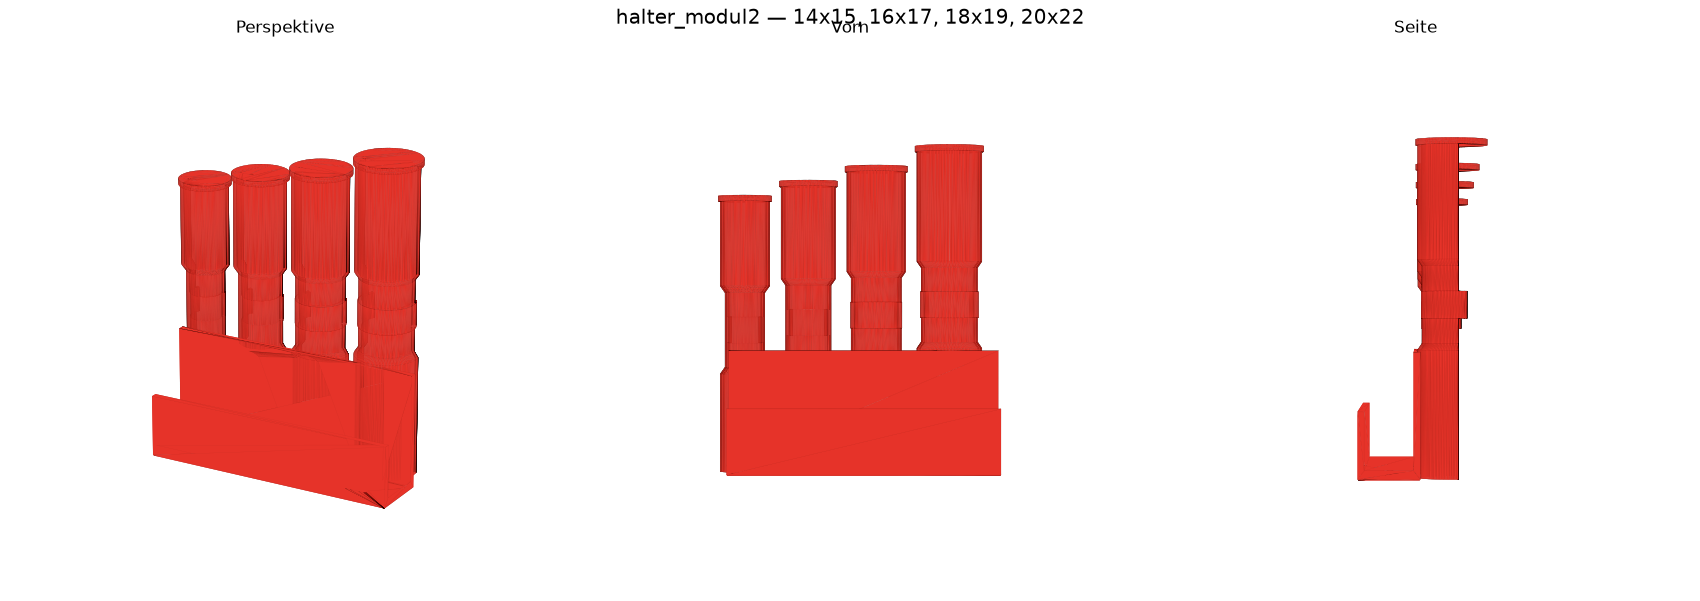
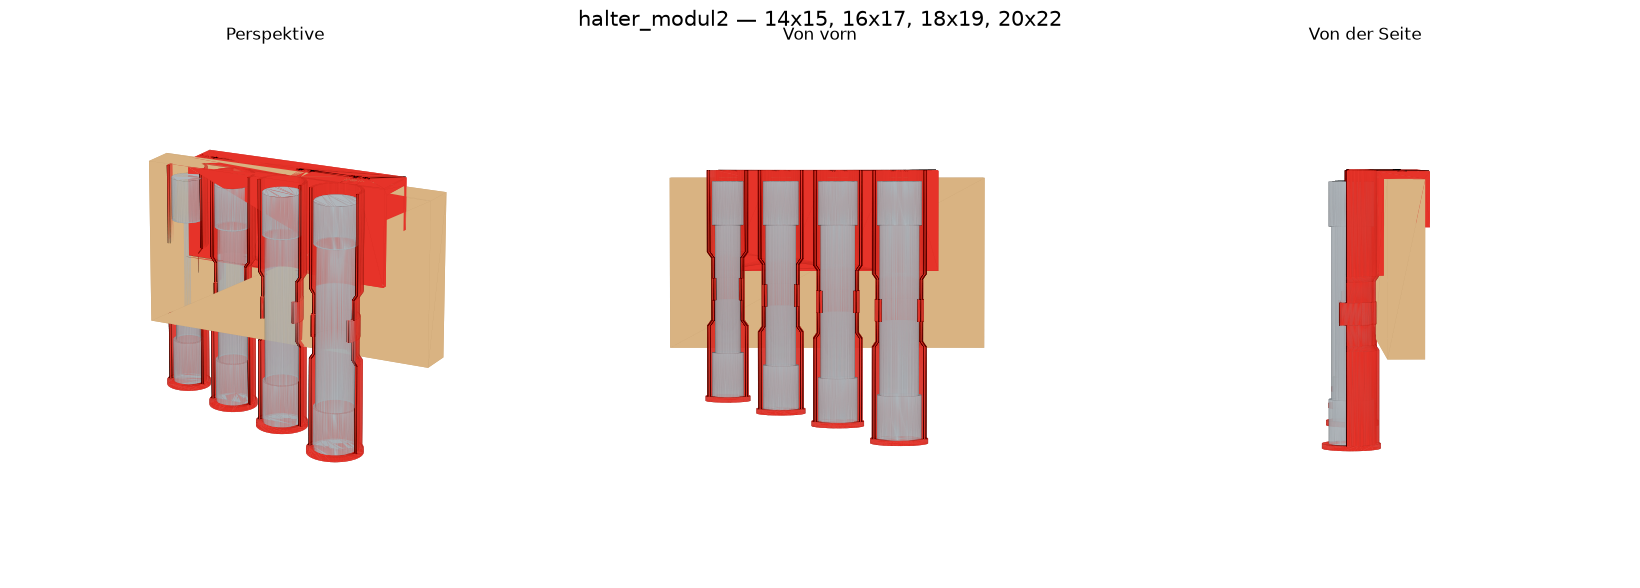
Renderings in Wandorientierung, mit Brett und eingehaengten Rohren
Die Bilder zeigten das Teil kopfueber: gerendert wurde die exportierte STL, und
die ist seit dem druckfertig-Export um 180 Grad gedreht. Fuer den Slicer richtig,
als Bild unverstaendlich.

- preview.py vernetzt jetzt den Koerper direkt statt die STL zu laden, also immer
  in Wandkoordinaten (z=0 = Brettoberkante).
- Alle Dreiecke landen in EINER Poly3DCollection mit Farbe pro Dreieck. Getrennte
  Collections sortiert matplotlib nicht gegeneinander nach Tiefe - dadurch fehlten
  Rohre oder verdeckten die Huelsen.
- wandhalter.brett() und modell.rohr_attrappe(): Brett und Rohre als Attrappen,
  nur fuer Bilder, nie im Export.

diff --git a/kern/preview.py b/kern/preview.py
@@ -1,6 +1,10 @@
-"""Rendert eine STL als PNG aus mehreren Blickwinkeln - zur Sichtkontrolle vor dem Druck."""
+"""Rendert Koerper als PNG - zur Sichtkontrolle vor dem Druck und fuers README.
 
-import struct
+Gerendert wird IMMER in Wandorientierung (z = 0 ist die Brettoberkante, negativ ist
+unten), NICHT in der Drucklage. Die exportierte STL steht kopfueber auf dem Bett -
+richtig fuer den Slicer, aber als Bild unverstaendlich. Deshalb wird hier direkt der
+Koerper vernetzt statt die STL geladen.
+"""
 
 import matplotlib
 
@@ -9,43 +13,54 @@ import matplotlib.pyplot as plt
 import numpy as np
 from mpl_toolkits.mplot3d.art3d import Poly3DCollection
 
+HALTER = "#e63329"  # Filamentrot
+HOLZ = "#d9b382"  # Fichte
+STAHL = "#b0b6bb"  # verchromter Stahl
 
-def load_stl(path):
-    with open(path, "rb") as f:
-        data = f.read()
-    n = struct.unpack("<I", data[80:84])[0]
-    tris = np.zeros((n, 3, 3), dtype=np.float32)
-    for i in range(n):
-        off = 84 + i * 50
-        vals = struct.unpack("<12f", data[off : off + 48])
-        tris[i] = np.array(vals[3:12]).reshape(3, 3)
-    return tris
+ANSICHTEN = [(18, -62, "Perspektive"), (3, -90, "Von vorn"), (3, -2, "Von der Seite")]
 
 
-def render(stl_path, png_path, views=None, farbe="#e63329", titel=None):
-    views = views or [(20, -60, "Perspektive"), (0, -90, "Vorn"), (0, 0, "Seite")]
-    tris = load_stl(stl_path)
+def _dreiecke(teil, toleranz=0.15):
+    ecken, dreiecke = teil.tessellate(toleranz)
+    pts = np.array([(p.X, p.Y, p.Z) for p in ecken])
+    return pts[np.array(dreiecke)]
 
-    fig = plt.figure(figsize=(6 * len(views), 6.5), facecolor="white")
-    for i, (elev, azim, name) in enumerate(views, 1):
-        ax = fig.add_subplot(1, len(views), i, projection="3d")
-        coll = Poly3DCollection(tris, facecolor=farbe, edgecolor="#00000018", linewidths=0.15)
-        ax.add_collection3d(coll)
 
-        pts = tris.reshape(-1, 3)
-        lo, hi = pts.min(axis=0), pts.max(axis=0)
-        mid, span = (lo + hi) / 2, (hi - lo).max() / 2
-        ax.set_xlim(mid[0] - span, mid[0] + span)
-        ax.set_ylim(mid[1] - span, mid[1] + span)
-        ax.set_zlim(mid[2] - span, mid[2] + span)
+def render(teile, png_pfad, ansichten=None, titel=None):
+    """teile: ein Koerper, oder eine Liste von (Koerper, Farbe)."""
+    if not isinstance(teile, (list, tuple)):
+        teile = [(teile, HALTER)]
+
+    # ALLE Dreiecke in EINE Collection, mit Farbe pro Dreieck. Getrennte Collections
+    # sortiert matplotlib nicht gegeneinander nach Tiefe - es malt sie stur
+    # nacheinander, und dann verdeckt das Rohr die Huelse oder umgekehrt.
+    netze = [_dreiecke(k) for k, _ in teile]
+    dreiecke = np.concatenate(netze)
+    farben = np.concatenate([[f] * len(n) for n, (_, f) in zip(netze, teile)])
+
+    alle = dreiecke.reshape(-1, 3)
+    mitte = (alle.min(0) + alle.max(0)) / 2
+    spanne = (alle.max(0) - alle.min(0)).max() / 2
+
+    ansichten = ansichten or ANSICHTEN
+    fig = plt.figure(figsize=(5.5 * len(ansichten), 6.2), facecolor="white")
+    for i, (elev, azim, name) in enumerate(ansichten, 1):
+        ax = fig.add_subplot(1, len(ansichten), i, projection="3d")
+        ax.add_collection3d(
+            Poly3DCollection(
+                dreiecke, facecolors=farben, edgecolor="#00000010", linewidths=0.08
+            )
+        )
+        for setzen, m in ((ax.set_xlim, mitte[0]), (ax.set_ylim, mitte[1]), (ax.set_zlim, mitte[2])):
+            setzen(m - spanne, m + spanne)
         ax.set_box_aspect((1, 1, 1))
         ax.view_init(elev=elev, azim=azim)
-        ax.set_title(name, fontsize=13)
+        ax.set_title(name, fontsize=12)
         ax.set_axis_off()
 
     if titel:
-        fig.suptitle(titel, fontsize=15, y=0.97)
+        fig.suptitle(titel, fontsize=15, y=0.96)
     fig.tight_layout()
-    fig.savefig(png_path, dpi=95, bbox_inches="tight")
+    fig.savefig(png_pfad, dpi=100, bbox_inches="tight")
     plt.close(fig)
-    print(f"  -> {png_path}")
+    print(f"  -> {png_pfad}")

diff --git a/halter/rohrsteckschluessel/modell.py b/halter/rohrsteckschluessel/modell.py
@@ -26,8 +26,15 @@ from build123d import *
 
 from pathlib import Path
 
-from kern.preview import render
-from kern.wandhalter import KLEMMKANAL, PLATTE_D, STEG_D, haken_profil, schreibe
+from kern.preview import HALTER, HOLZ, STAHL, render
+from kern.wandhalter import (
+    KLEMMKANAL,
+    PLATTE_D,
+    STEG_D,
+    brett,
+    haken_profil,
+    schreibe,
+)
 
 TITEL = "WIESEMANN 1893 Rohrsteckschluesselsatz 10tlg (81420)"
 AUSGABE = Path(__file__).parent / "druck"
@@ -204,6 +211,32 @@ def rohr_aufnahme(od, d_ende, laenge):
     return p.part.moved(Location((0, y, 0)))
 
 
+def rohr_attrappe(od, de, laenge):
+    """Ein Rohr als Koerper - NUR fuer Renderings, wird nie exportiert.
+
+    Runder Schaft mit den angestauchten Enden. Zeigt, wie der Satz haengt.
+    """
+    zb = Z_ROHR_OBEN - laenge
+    ende = 28.0  # Laenge der Verdickung (geschaetzt, nur fuers Bild)
+    with BuildPart() as p:
+        with Locations(Location((0, 0, zb))):
+            Cylinder(od / 2, laenge, align=(Align.CENTER, Align.CENTER, Align.MIN))
+        for z in (zb, zb + laenge - ende):
+            with Locations(Location((0, 0, z))):
+                Cylinder(de / 2, ende, align=(Align.CENTER, Align.CENTER, Align.MIN))
+    return p.part
+
+
+def bestueckt(rohre):
+    """Halter + eingehaengte Rohre + Brett - die Ansicht fuers README."""
+    xs, breite = positionen(rohre)
+    attrappen = [
+        rohr_attrappe(od, de, laenge).moved(Location((x, achse_y(d_weit(de) if de - od > STUFE_MIN else od), 0)))
+        for (_, od, de, laenge), x in zip(rohre, xs)
+    ]
+    return attrappen, breite
+
+
 def gravur(text, x):
     """Schriftkoerper fuer die Stegoberseite; der Aufrufer zieht ihn ab.
 
@@ -317,8 +350,10 @@ def tests_bauen():
     print(f"Testclips - Klemmkanal {KLEMMKANAL:.0f} mm, Rohr {TEST_LAENGE:.0f} mm\n")
     for label, od, de, _ in (ROHRE[0], ROHRE[-1]):
         name = f"testclip_{label.replace('x', '-')}"
-        ziel = schreibe(testclip(label, od, de), name, AUSGABE)
-        render(f"{ziel}.stl", f"{ziel}.png", titel=name)
+        teil = testclip(label, od, de)
+        ziel = schreibe(teil, name, AUSGABE)
+        breite = 2 * aussenradius(od, de) + 2 * RAND
+        render([(teil, HALTER), (brett(breite, 15), HOLZ)], f"{ziel}.png", titel=name)
         print()
 
 
@@ -327,16 +362,24 @@ def bauen():
     gruppen = [ROHRE[i : i + pro_modul] for i in range(0, len(ROHRE), pro_modul)]
     for i, gruppe in enumerate(gruppen, 1):
         name = f"halter_modul{i}"
-        ziel = schreibe(leiste(gruppe), name, AUSGABE)
+        teil = leiste(gruppe)
+        ziel = schreibe(teil, name, AUSGABE)
         tief = min(Z_ROHR_OBEN - l - BODEN_D for _, _, _, l in gruppe)
         print(f"  haengt    {abs(tief):.0f} mm unter die Brettoberkante")
-        render(f"{ziel}.stl", f"{ziel}.png", titel=f"{name} — {', '.join(g[0] for g in gruppe)}")
+        attrappen, breite = bestueckt(gruppe)
+        render(
+            [(teil, HALTER)] + [(r, STAHL) for r in attrappen] + [(brett(breite), HOLZ)],
+            f"{ziel}.png",
+            titel=f"{name} — {', '.join(g[0] for g in gruppe)}",
+        )
         print()
 
-    ziel = schreibe(dorn_halter(), "halter_dorn", AUSGABE)
+    teil = dorn_halter()
+    ziel = schreibe(teil, "halter_dorn", AUSGABE)
     print(f"  haengt    {abs(Z_ROHR_OBEN - DORN_DICK_L - SCHULTER_D):.0f} mm"
           f" (+ 45 mm freie Spitze)")
-    render(f"{ziel}.stl", f"{ziel}.png", titel="halter_dorn")
+    breite = 2 * ro_huelse(DORN_D) + 2 * BODEN_LIPPE + 2 * RAND
+    render([(teil, HALTER), (brett(breite, 15), HOLZ)], f"{ziel}.png", titel="halter_dorn")
     print()
 
 

diff --git a/kern/wandhalter.py b/kern/wandhalter.py
@@ -68,6 +68,23 @@ def druckfertig(teil):
     return gedreht.moved(Location((0, 0, -bb.min.Z)))
 
 
+BRETT_DICKE = 23.0  # nur fuer Bilder: knapp duenner als der Klemmkanal
+BRETT_HOEHE = 110.0
+
+
+def brett(breite, ueberstand=30.0):
+    """Ein Stueck Brett - NUR fuer Renderings, wird nie exportiert.
+
+    Zeigt, wie der Halter ueber die Oberkante greift. Sitzt mittig im Klemmkanal.
+    """
+    luft = (KLEMMKANAL - BRETT_DICKE) / 2
+    with BuildPart() as p:
+        with BuildSketch(Plane.XY):
+            Rectangle(breite + 2 * ueberstand, BRETT_DICKE, align=(Align.MIN, Align.MIN))
+        extrude(amount=-BRETT_HOEHE)
+    return p.part.moved(Location((-ueberstand, luft, 0)))
+
+
 def schreibe(teil, name, ordner):
     """STEP in Wandkoordinaten (fuer CAD), STL/3MF fertig gedreht (fuer den Slicer)."""
     ordner = Path(ordner)

diff --git a/README.md b/README.md
@@ -6,6 +6,9 @@ Python-Code mit [build123d](https://github.com/gumyr/build123d), Export als STL,
 
 ![Halter für den Rohrsteckschlüsselsatz](bilder/rohrsteckschluessel.png)
 
+*Modul 2 (14×15 … 20×22), eingehängt über die Brettkante. Die Rohre und das Brett
+sind nur zur Veranschaulichung mitgerendert.*
+
 ## Worum es geht
 
 Die Wand besteht aus waagerechten Brettern auf senkrechten Latten, sodass **hinter